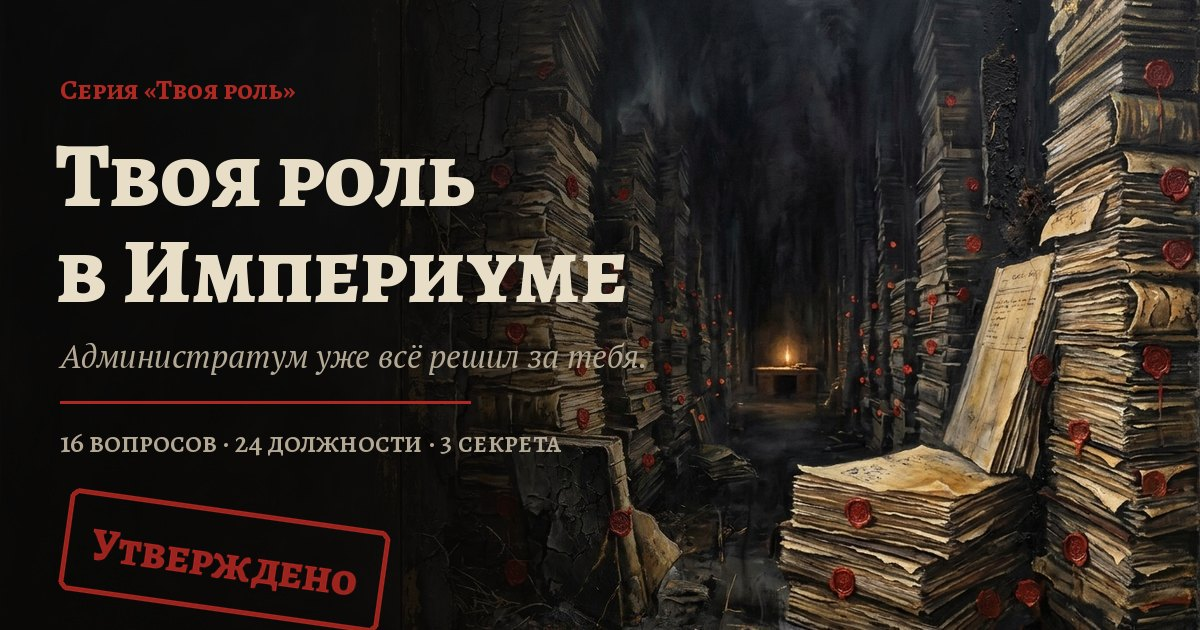
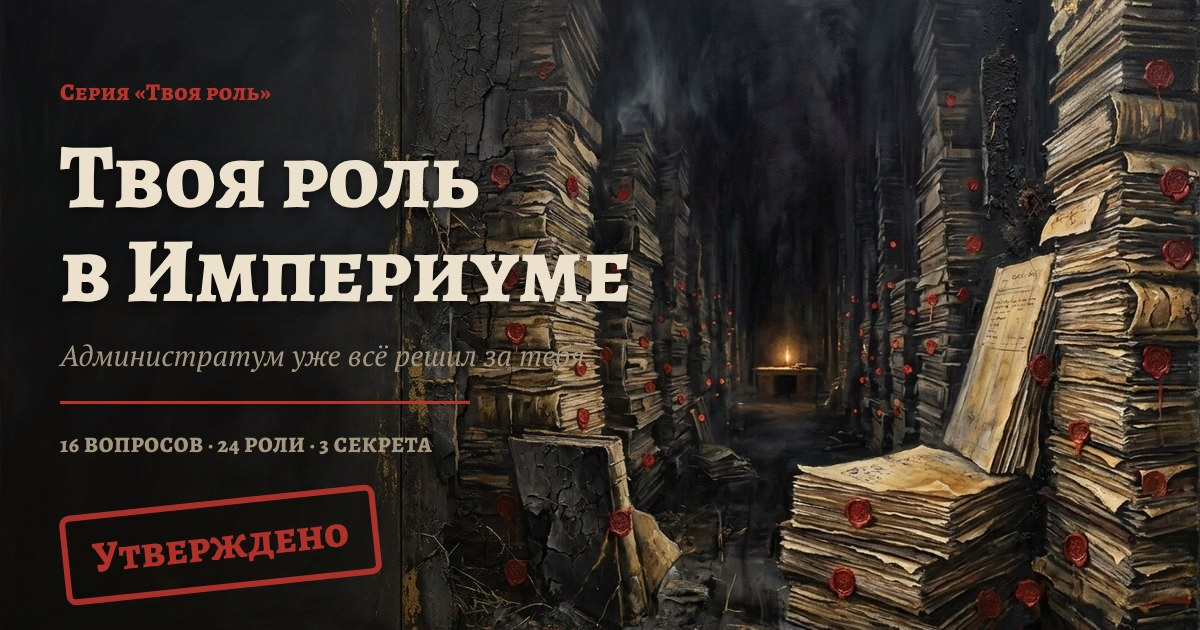
«24 роли» вместо «24 должности»: текст страниц и превью-картинка
Claude-Session: https://claude.ai/code/session_01WczVTUkWxyzo2PmWQ5Qi3r

Changed region(s): [[0.0308, 0.0, 0.5858, 1.0], [0.4008, 0.754, 0.4625, 0.8143]]

diff --git a/imperium/index.html b/imperium/index.html
@@ -4,9 +4,9 @@
 <meta charset="utf-8">
 <meta name="viewport" content="width=device-width, initial-scale=1, viewport-fit=cover">
 <title>Твоя роль в Империуме</title>
-<meta name="description" content="Анкета распределения Администратума: 16 житейских вопросов и твоя должность в Империуме. 24 должности и 3 секретных результата.">
+<meta name="description" content="Анкета распределения Администратума: 16 житейских вопросов и твоя роль в Империуме. 24 роли и 3 секретных результата.">
 <meta property="og:title" content="Твоя роль в Империуме">
-<meta property="og:description" content="Администратум уже всё решил за тебя. 16 вопросов о самой обычной жизни — и твоя должность в Империуме.">
+<meta property="og:description" content="Администратум уже всё решил за тебя. 16 вопросов о самой обычной жизни — и твоя роль в Империуме.">
 <meta property="og:type" content="website">
 <meta property="og:image" content="https://lifelover2311.github.io/imperium/og.jpg">
 <meta property="og:image:width" content="1200">
@@ -218,7 +218,7 @@ footer p{margin:0 0 6px}
   <div class="facts">
     <div><b>16</b><span>вопросов за раз</span></div>
     <div><b>32</b><span>в пуле: каждый раз другие</span></div>
-    <div><b>24</b><span>должности</span></div>
+    <div><b>24</b><span>роли</span></div>
     <div><b>3</b><span>секретных результата</span></div>
   </div>
   <p class="panel" id="patron" hidden></p>
@@ -284,11 +284,11 @@ footer p{margin:0 0 6px}
   </article>
 
   <div id="rNear">
-    <h3 class="h3">Ближайшие должности</h3>
+    <h3 class="h3">Ближайшие роли</h3>
     <div class="top3" id="rTop"></div>
     <div class="worst" id="rWorst"></div>
     <details class="all" id="rAllBox">
-      <summary>Все 24 должности по совпадению</summary>
+      <summary>Все 24 роли по совпадению</summary>
       <div class="rank" id="rAll"></div>
       <div class="peek" id="rPeek" hidden></div>
     </details>
@@ -512,7 +512,7 @@ function renderResult(){
   /* дополнительные строчки */
   var extra=[];
   if(sec==="servitor"||sec==="skitarius") extra.push(["pop",Q.CAUGHT]);
-  if(sec==="custodian") extra.push(["extra","Секретный результат. Ближе всего из обычных должностей — "+top.r.n+" ("+top.pct+"%)."]);
+  if(sec==="custodian") extra.push(["extra","Секретный результат. Ближе всего из обычных ролей — "+top.r.n+" ("+top.pct+"%)."]);
   if(!sec&&p.sisters&&Math.random()<p.sisters){ extra.push(["extra","Да, мужчинам тоже можно. Сёстры не против."]); found("sisters"); }
   if(!sec&&p.id==="commissar"&&res.user[Q.LETTERS.indexOf("B")]<0){ extra.push(["extra","Особый случай. Тебя бы понял Кайафас Каин — комиссар, который всю жизнь пытался сбежать от войны и каждый раз случайно её выигрывал."]); found("kaine"); }
   if(!state.view&&krovLast&&krovLast.n) extra.push(["extra","<b>Кровь:</b> "+esc(krovLast.n)+". <b>Служба:</b> "+esc(p.n)+"."]);

diff --git a/index.html b/index.html
@@ -55,7 +55,7 @@ footer p{margin:0 0 6px}
     </a>
     <a class="t" href="imperium/">
       <div class="im" style="background-image:url('imperium/og.jpg')"></div>
-      <div class="b"><span class="new">Новый</span><span class="eyebrow">Часть вторая · продолжение</span><h2>Твоя роль в Империуме</h2><p>Анкета распределения Администратума: 16 вопросов, 24 должности, 3 секрета.</p><span class="go">Заполнить анкету →</span></div>
+      <div class="b"><span class="new">Новый</span><span class="eyebrow">Часть вторая · продолжение</span><h2>Твоя роль в Империуме</h2><p>Анкета распределения Администратума: 16 вопросов, 24 роли, 3 секрета.</p><span class="go">Заполнить анкету →</span></div>
     </a>
     <div class="t soon" aria-hidden="true">
       <div class="im"><span>Засекречено</span></div>
